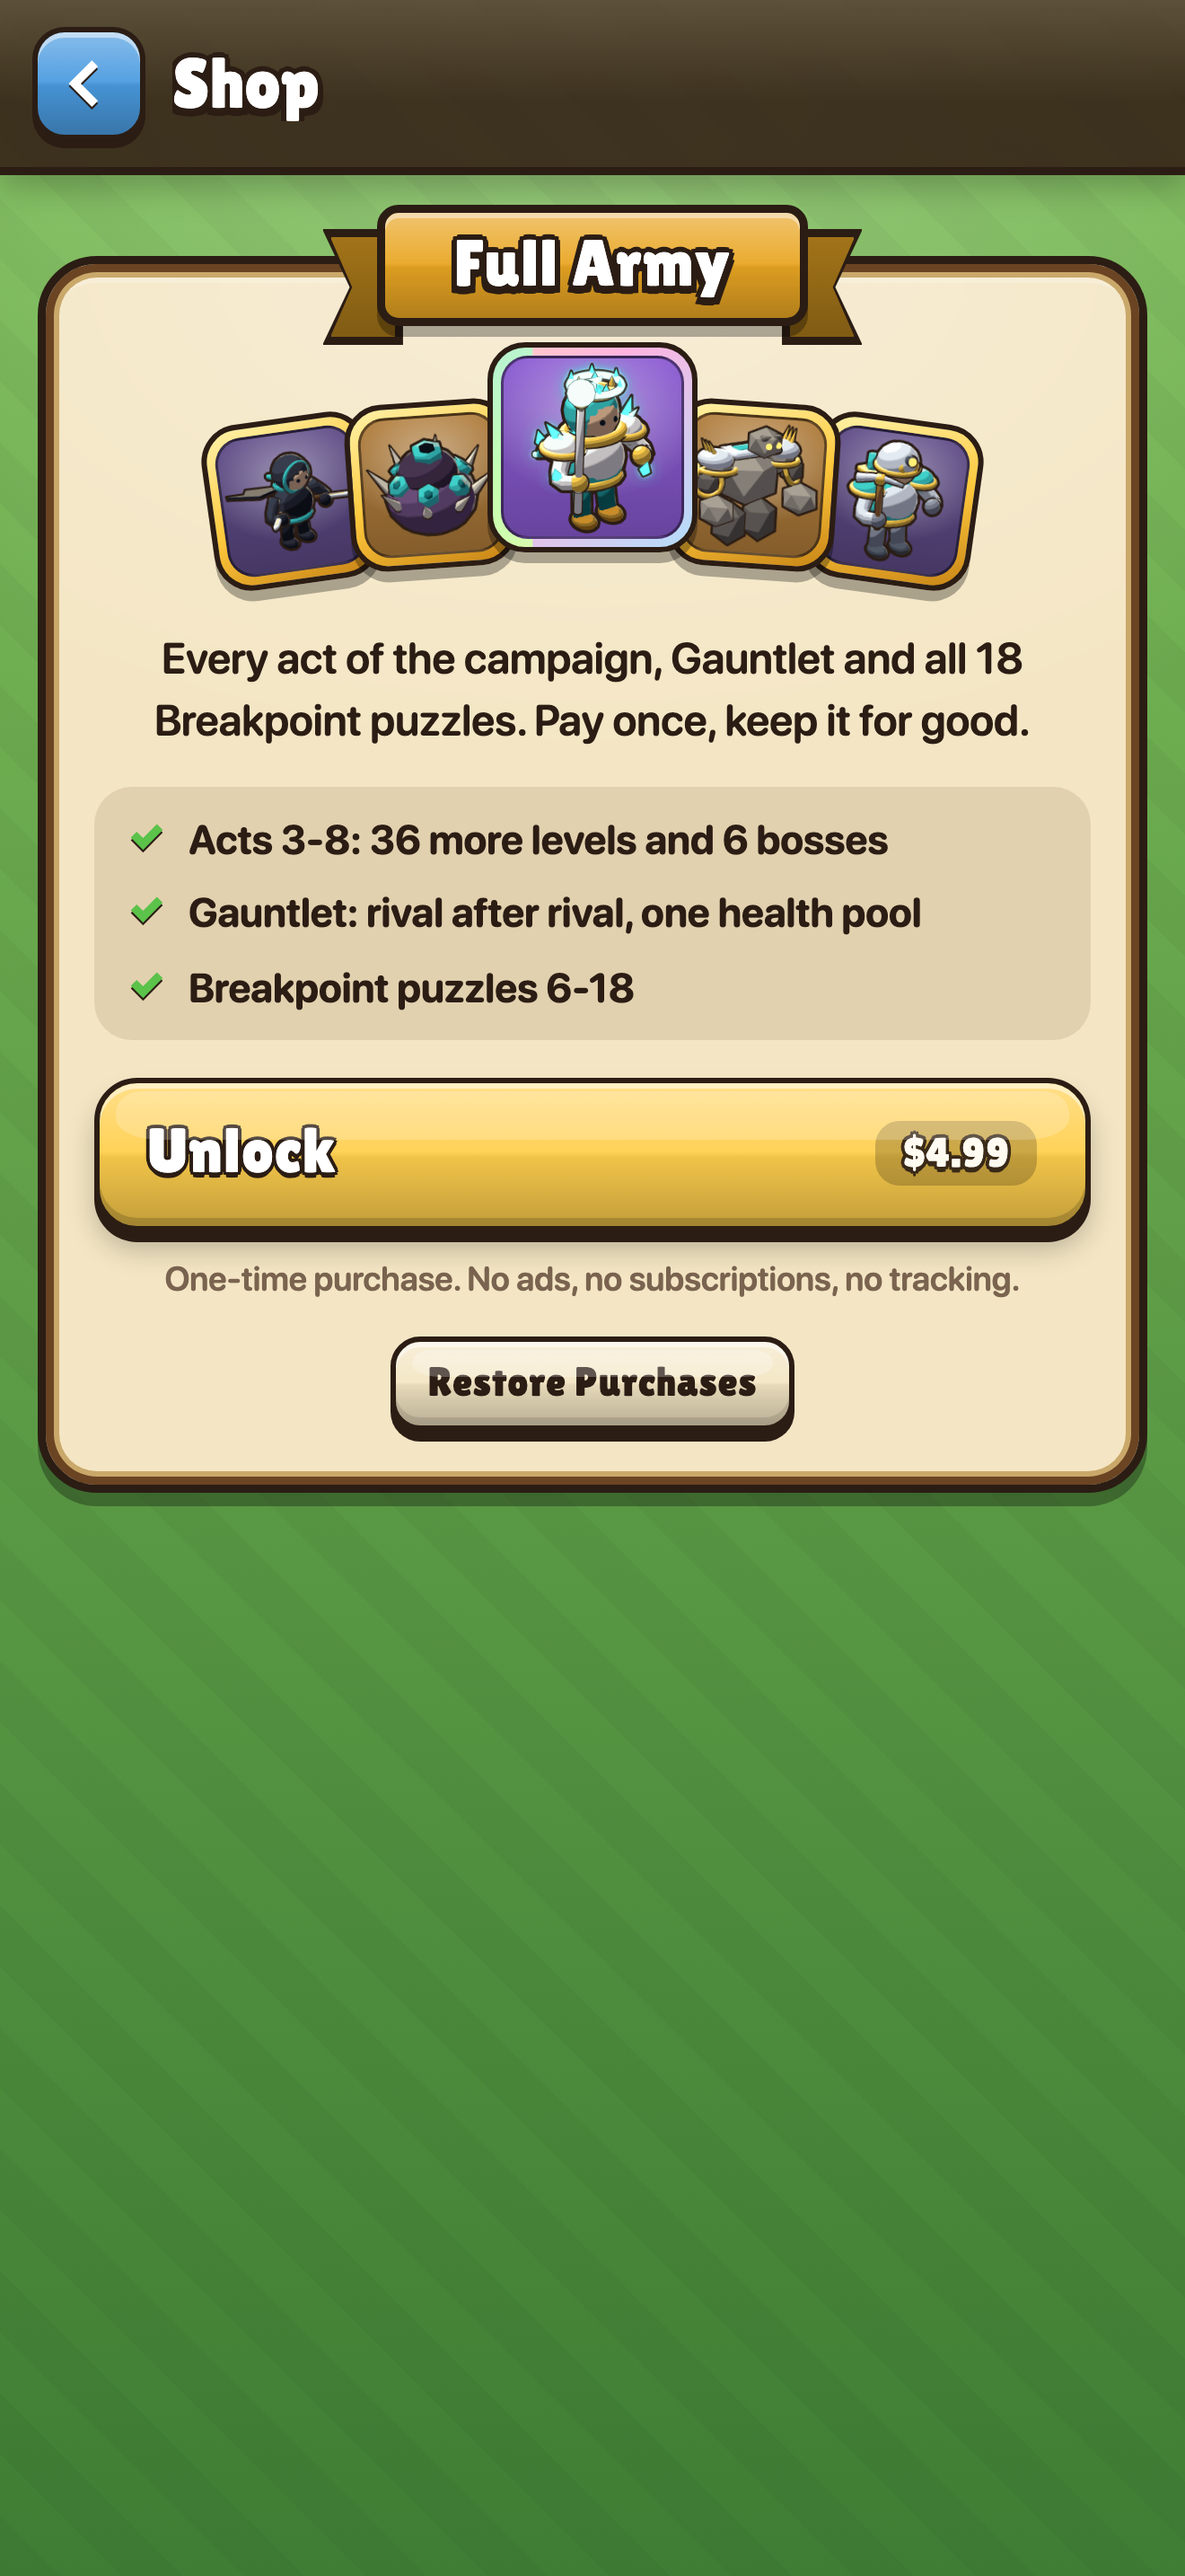
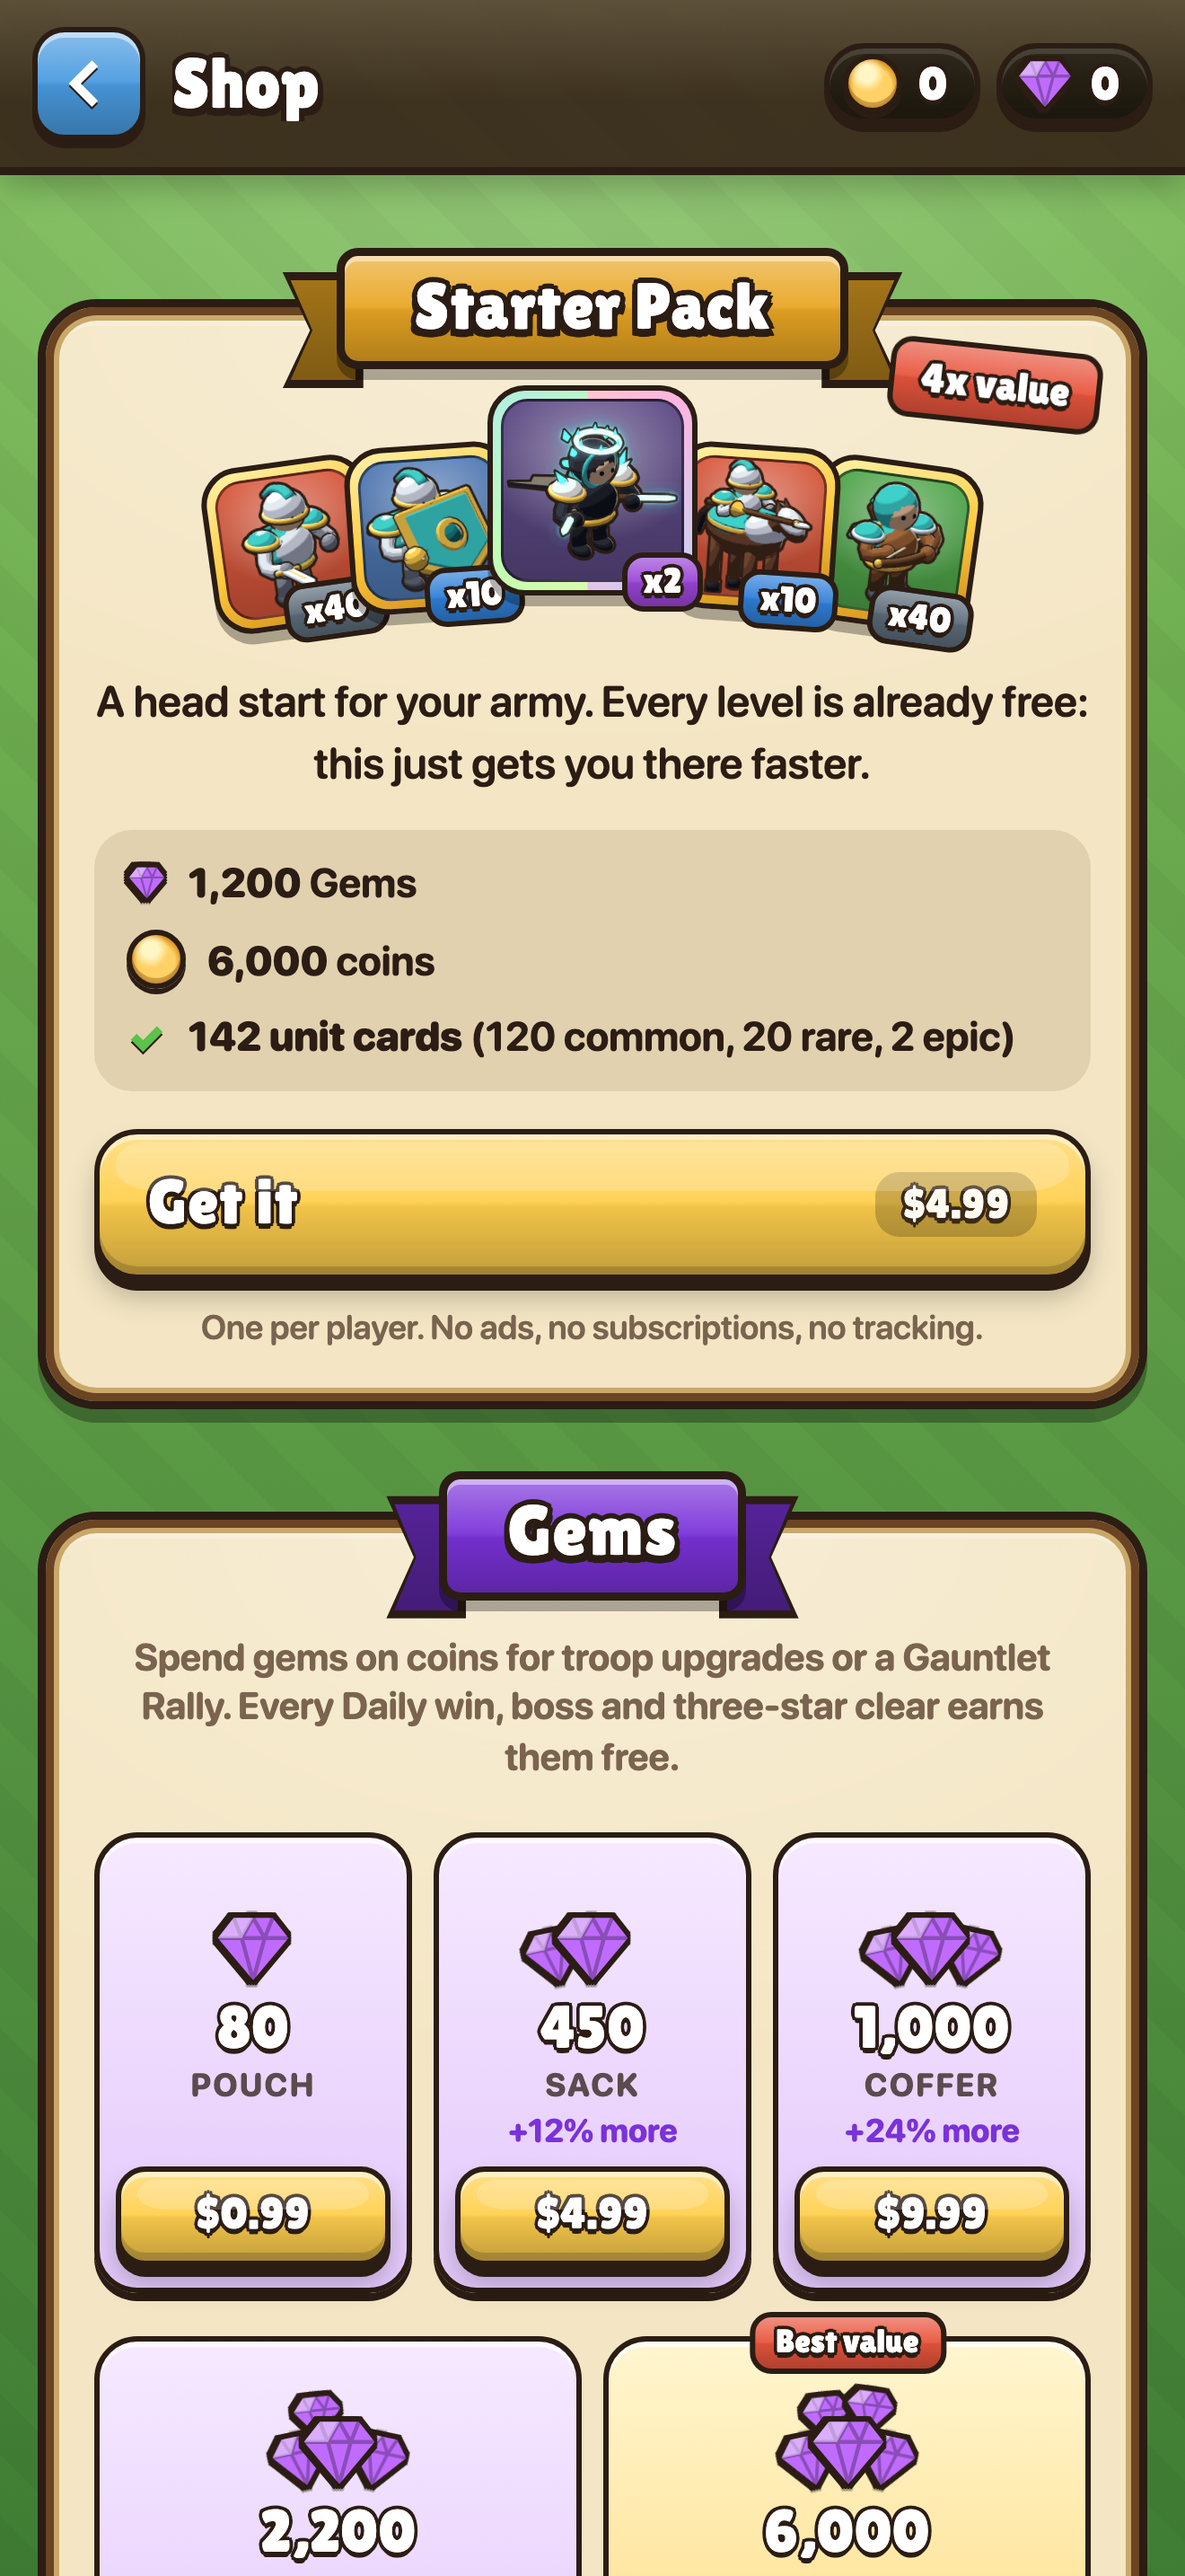
Starter Pack IAP review screenshot; Shop isn't redrawn under its own Starter Pack panel
store-shots --only=iap-review now waits for the Starter Pack instead of the Full Army.

diff --git a/src/main.ts b/src/main.ts
@@ -641,7 +641,8 @@ async function boot() {
   setSound(s.settings.sound);
   setHaptics(s.settings.haptics);
   // [store] A Starter Pack paid but never finished (or approved later) is credited, then the screen redraws.
-  starter.onCredit(() => { if (!sheetEl) here?.(); });
+  // The Shop's own Starter Pack panel shows "Owned" and removes itself, so the Shop isn't redrawn under it.
+  starter.onCredit(() => { if (!sheetEl && !document.querySelector('[data-offer="starter"]')) here?.(); });
   void starter.start();
   void gemShop.start(); // [gems] credit paid-but-unfinished packs, then listen for Ask to Buy approvals
   settleRewards(); // [gems] pay free gems for progress made before gems existed
